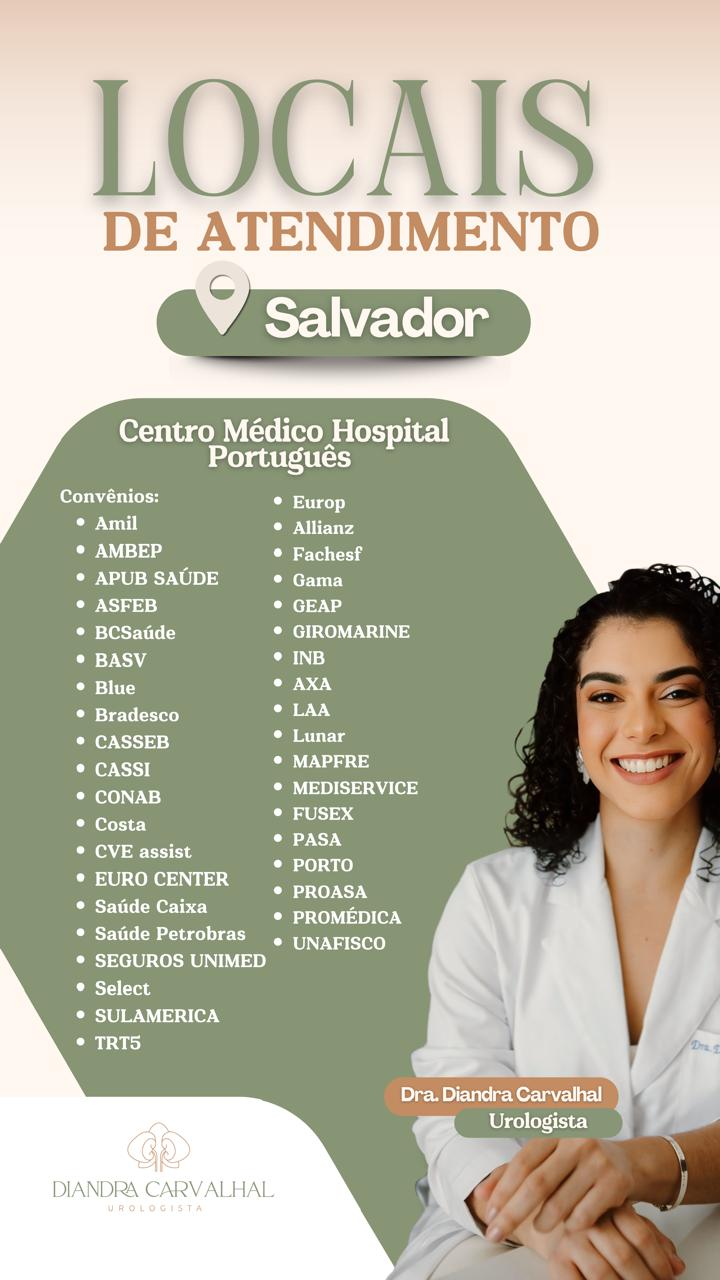
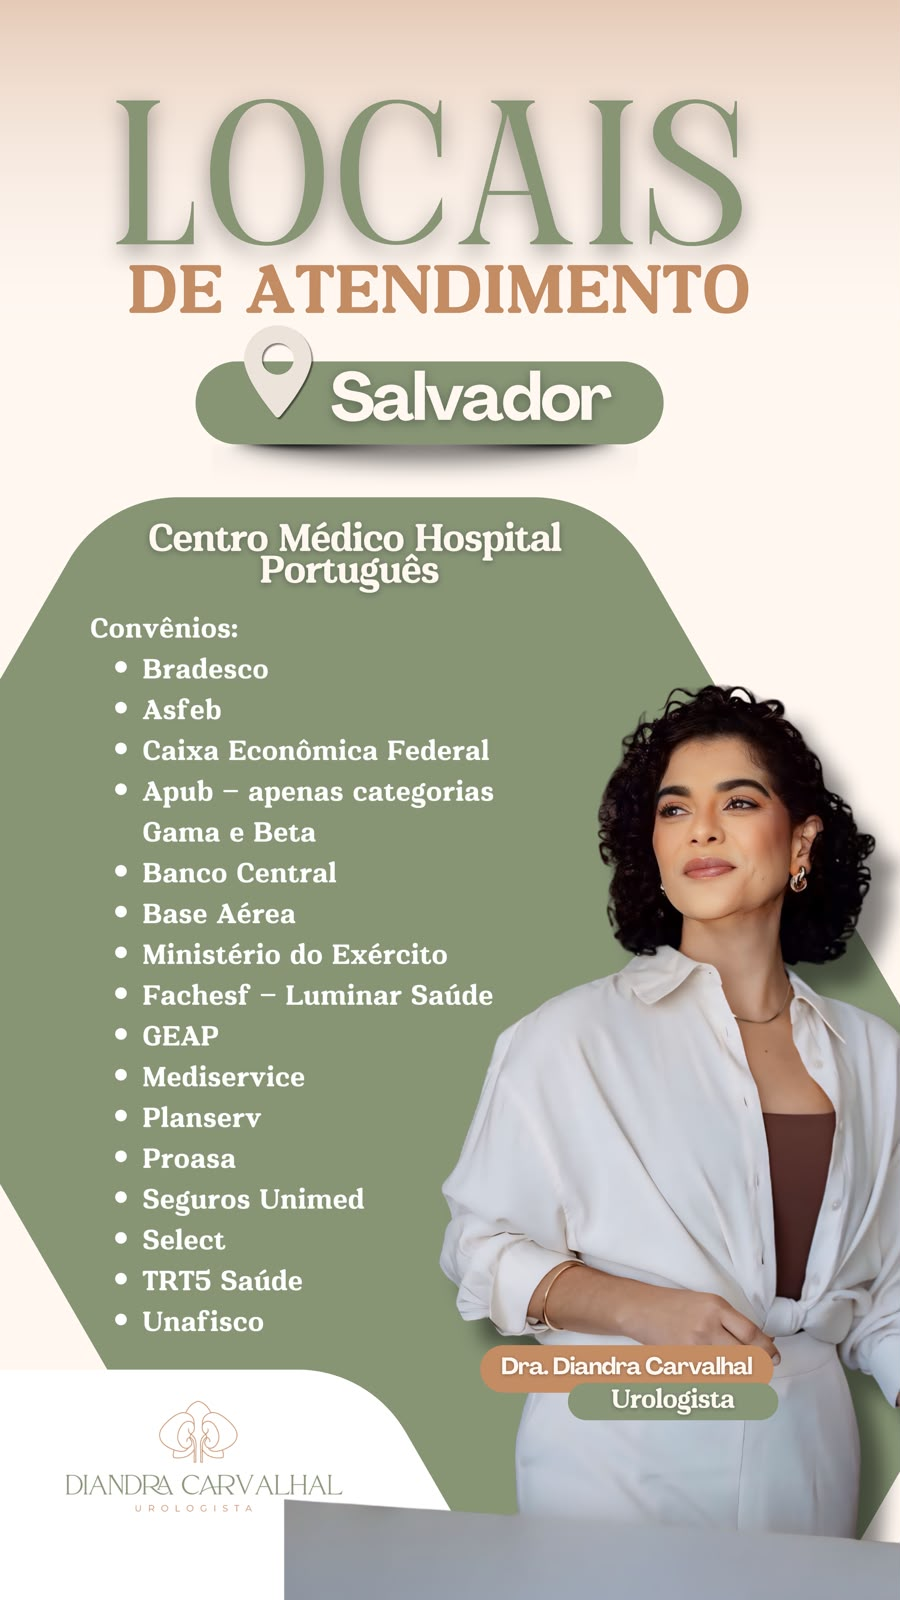
Atualizacao card convenios

Changed region(s): [[0.0917, 0.3438, 1.0, 1.0], [0.0917, 0.875, 0.3056, 0.9375]]

diff --git a/include/infos.php b/include/infos.php
@@ -83,8 +83,9 @@ $locais_aracaju = [
 
 $locais_salvador = [
     [
-        'id' => 'Clinica Clivale',
-        'img_convenio' => 'salvador/clivale.jpg', // <-- CAMINHO COMPLETO AQUI
+        'id' => 'clinica-clivale',
+        'img_convenio' => 'salvador/clivale.jpeg',
+        'tem_convenio' => true,
         'img' => 'clivale.png',
         'alt' => 'Clínica Clivale',
         'titulo' => 'Clínica Clivale',
@@ -93,7 +94,8 @@ $locais_salvador = [
     ],
     [
         'id' => 'clinica-da-mulher',
-        'img_convenio' => 'salvador/clinica-da-mulher.jpeg', // <-- CAMINHO COMPLETO AQUI
+        'img_convenio' => 'salvador/clinica-da-mulher.jpeg',
+        'tem_convenio' => true,
         'img' => 'clinica-da-mulher.png',
         'alt' => 'Clínica da Mulher',
         'titulo' => 'Clínica da Mulher',
@@ -102,7 +104,8 @@ $locais_salvador = [
     ],
     [
         'id' => 'hospital-portugues',
-        'img_convenio' => 'salvador/hospitalportugues.jpeg', // <-- CAMINHO COMPLETO AQUI
+        'img_convenio' => 'salvador/hospitalportugues.jpeg',
+        'tem_convenio' => true,
         'img' => 'hospital-portugues.png',
         'alt' => 'Centro Médico Hospital Português ',
         'titulo' => 'Centro Médico Hospital Português ',
@@ -111,7 +114,8 @@ $locais_salvador = [
     ],
     [
         'id' => 'clinica-medjan',
-        'img_convenio' => 'salvador/medjan.jpeg', // <-- CAMINHO COMPLETO AQUI
+        'img_convenio' => 'salvador/medjan.jpeg',
+        'tem_convenio' => true,
         'img' => 'medjan.webp',
         'alt' => 'Clínica Medjan',
         'titulo' => 'Clínica Medjan',

diff --git a/index.php b/index.php
@@ -311,7 +311,7 @@
                         <h5 class="modal-title" id="label-<?= htmlspecialchars($local['id']) ?>">Convênios - <?= htmlspecialchars($local['titulo']) ?></h5>
                         <button type="button" class="btn-close" data-bs-dismiss="modal" aria-label="Close"></button>
                     </div>
-                    <?php if($local['tem_convenio'] == true){ ?>
+                    <?php if (!empty($local['tem_convenio'])) { ?>
                     <div class="modal-body text-center">
                         <img src="img/convenios/<?= htmlspecialchars($local['img_convenio']) ?>" alt="Convênios - <?= htmlspecialchars($local['titulo']) ?>" class="img-fluid">
                     </div>
